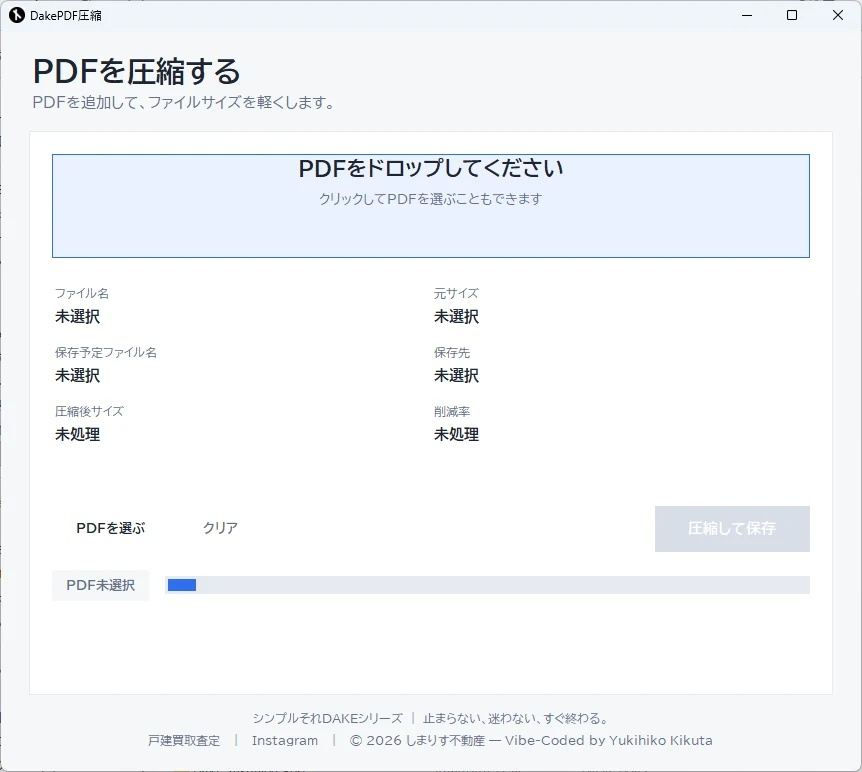
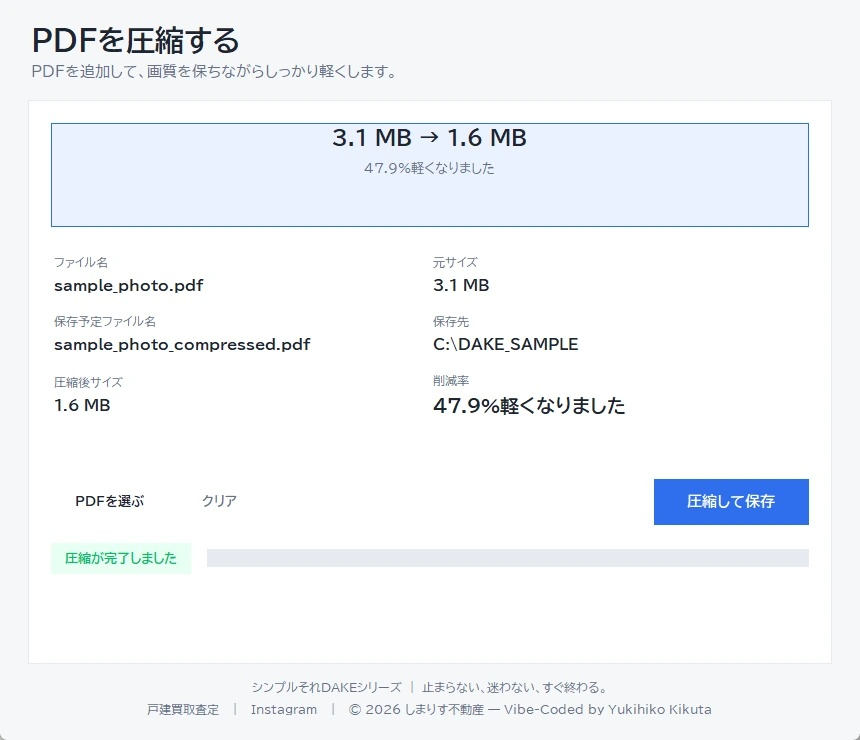
release: ship DAKE PDF Compress v1.1.0

diff --git a/01_apps/DAKE_PDF_Compress/README.md b/01_apps/DAKE_PDF_Compress/README.md
@@ -1,6 +1,6 @@
-# DakePDF圧縮
+# DakePDF圧縮 v1.1.0
 
-PDFを1つ追加して、ファイルサイズを軽くするDAKEのWindowsデスクトップアプリです。
+PDFを追加するだけで、画質を保ちながら内容に合った方法で軽くするDAKEのWindowsデスクトップアプリです。
 
 ## 使い方
 
@@ -48,7 +48,7 @@ DakePDF_Compress.exe --from-shimarisu --inputs "A.pdf" "B.pdf"
 - 追加すると「PDFを確認中...」、準備ができると「圧縮できます」と表示します。
 - 処理中は現在の作業を表示し、完了するとサイズの変化と削減率が分かります。
 - 元PDFは変更せず、同じフォルダへ別名保存します。十分に軽いPDFは保存しない場合があります。
-- 今回の改善は正式出荷前です。人手確認後に公開します。
+- Adaptive Compression版はHuman Gateを通過した正式版v1.1.0です。
 
 ## ビルド方法
 
@@ -102,13 +102,16 @@ build.bat
   "app_key": "dake_pdf_compress",
   "display_name": "DakePDF圧縮",
   "launcher_title": "PDF圧縮",
-  "launcher_description": "PDFを追加してファイルサイズを軽くします。",
+  "launcher_description": "PDFを追加して、画質を保ちながらしっかり軽くします。",
   "site_title": "DakePDF圧縮",
-  "site_description": "PDFを1つ追加し、ファイルサイズを軽くした別名PDFとして保存できるWindows向けアプリです。",
-  "update_summary": "READMEメタ情報とRelease本文を整備。スクリーンショットをassets/screenshot.webpに作成。",
+  "site_description": "PDFを追加するだけで、画質を保ちながら内容に合った方法で軽くした別名PDFを保存できるWindows向けアプリです。",
+  "update_summary": "v1.1.0。PDFごとに圧縮方法を自動選択し、品質確認と操作応答性を改善。",
   "folder_name": "DAKE_PDF_Compress",
   "exe_name": "DakePDF_Compress.exe",
-  "release_url": "https://github.com/yukiPHZ/dake-series/releases/tag/DAKE_PDF_Compress_v1.0.0",
+  "version": "1.1.0",
+  "release_url": "https://github.com/yukiPHZ/dake-series/releases/tag/DAKE_PDF_Compress_v1.1.0",
+  "app_type": "market",
+  "completion_goal": "formal_release",
   "screenshot_path": "assets/screenshot.webp",
   "status": "available",
   "show_in_launcher": true,
@@ -121,8 +124,9 @@ build.bat
 
 ## RELEASE_BODY
 
-- PDF圧縮アプリ
-- 内容に合わせた自動圧縮
-- 別名保存・自動連番対応
-- SHIMARISU連携CLI対応
-- Windows向けexe
+- PDFの内容に応じて圧縮方法を自動選択
+- 圧縮後の品質確認を強化
+- 写真・スキャン・図面系PDFへの対応を改善
+- PDF追加時・圧縮中の操作応答性を改善
+- 圧縮結果を分かりやすく表示
+- SHIMARISU連携CLI互換を維持

diff --git a/01_apps/DAKE_PDF_Compress/release_body.md b/01_apps/DAKE_PDF_Compress/release_body.md
@@ -1,5 +1,10 @@
-- PDF圧縮アプリ
-- v2のしっかり圧縮
-- 別名保存・自動連番対応
-- SHIMARISU連携CLI対応
-- Windows向けexe
+DakePDF圧縮 v1.1.0
+
+* PDFの内容に応じて圧縮方法を自動選択
+* 圧縮後の品質確認を強化
+* 写真・スキャン・図面系PDFへの対応を改善
+* PDF追加時・圧縮中の操作応答性を改善
+* 圧縮結果を分かりやすく表示
+* SHIMARISU連携CLI互換を維持
+
+元PDFは上書きしません。
